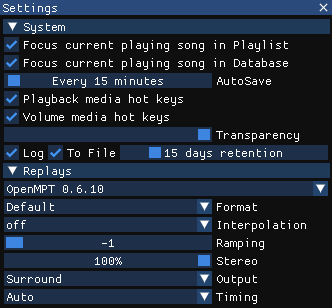
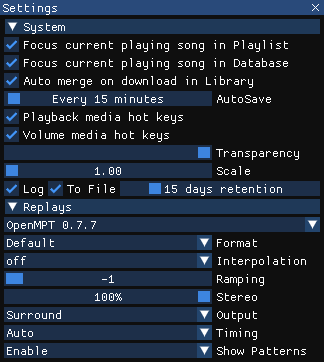
replayer: bump version to 0.15.16

diff --git a/source/RePlayer/Version.h b/source/RePlayer/Version.h
@@ -2,7 +2,7 @@
 
 #define REPLAYER_VERSION_MAJOR 0
 #define REPLAYER_VERSION_MINOR 15
-#define REPLAYER_VERSION_PATCH 15
+#define REPLAYER_VERSION_PATCH 16
 
 #define VER_STRINGIZE(x) #x
 #define VER_STR(x) VER_STRINGIZE(x)

diff --git a/TODO.md b/TODO.md
@@ -1,12 +1,10 @@
 # rePlayer (another multi-formats music player)
 
-- auto merge
 - array: change ReturnType (is_pointer, is_reference,...) with a trait enuym type (enum return type value, index, pointer, ref)
 - add the replay selection for each extension in the global settings
 - add source browser (directly browse from websites in the same way as https://www.wothke.ch/playmod/) and import from selected songs
 - replace replays "displaySettings" with a generic settings system without UI (ui is in replayer instead), to remove dependencies to imgui
 - add a project to make rePlayer as a lib/dll (so people can use the replays too): rePlayback (stripped from database and ui)
-- import from files: support for songs with multiple files (perfect import?)
 - improve the seemless playback (re-use the sample player with multiple replays? as soon as they are compatible: same sample rate)
 - mp3: sync info (bitrate) with playback
 - database: add album database
@@ -24,7 +22,7 @@
 - remove allocated vb & ib and replace it by a scratch buffer
 - handle properly gpucrash/device lost
 - profiler (cpu + gpu)
-- multi-threaded load (with main screens lock)
+- async song load?
 - https://www.amigaremix.com/ importer
 - https://remix.kwed.org/ importer
 - https://www.exotica.org.uk/ importer?

diff --git a/README.md b/README.md
@@ -116,10 +116,11 @@ Note 3: you can drag and drop url. On load, it will download the song or stream 
 ![rePlayer's Settings](/doc/settings.png)
 
 Enable/disable the songs focus there (when a song start to play, it is focused in the playlist and/or database).  
+Enable/disable the auto merge when a song is download from the library.  
 AutoSave frequency of the rePlayer. (it will save on quit anyway).  
 Enable/disable the media hot keys (for playback and volume).  
-Transparency of the windows.  
-Live loggin can be enabled/disabled as well as its save on the disk. The log retention can be changed too (older log files than the retention days limit are deleted).  
+Transparency of the windows (not available on the win32 release).  
+Live log can be enabled/disabled as well as its save on the disk. The logs retention can be changed too (older log files than the retention days limit are deleted).  
 You can change the global settings of each players. I will not enter into the details here, I'm too lazy (I've just enabled by default my simple surround filter because I like it).
 
 ## The tray icon

diff --git a/CHANGELOG.md b/CHANGELOG.md
@@ -1,19 +1,20 @@
-v0.15.15:
+v0.15.16:
 - Added Ayumi
 - Added Ken
 - Added Organya
 - Updated Furnace to 0.6.3
 - Updated gbsplay to 0.0.97
-- Updated libsidplay to 2.7.0
+- Updated libsidplay to 2.7.1
 - Updated OpenMPT to 0.7.7
 - Updated Opus to 1.5.2
 - Updated ProTrekkr to 2.6.7
 - Updated vgmstream to r1917
 - Updated ImGui to 1.90.6
 - Updated libarchive to 3.7.4 as static library
-- Updated libcurl to 8.7.1 as static library with minimal content instead of full dynamic library
+- Updated libcurl to 8.8.0 as static library with minimal content instead of full dynamic library
 - Updated TagLib to 2.0.1
 - Archive loader
+- Library auto merge option on download
 - Patterns display (OpenMPT, Hively)
 - Playlist sort from current playing position while pressing Ctrl
 - Refactor file importer
